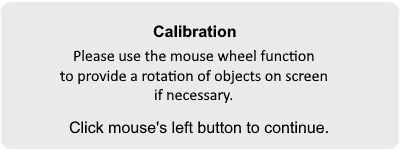
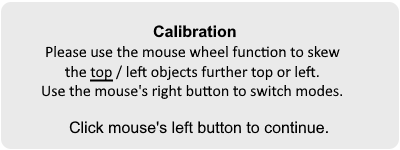
Calibration Update
Contains three callibration settings (offset center, scale objects, skew left/right/top/bottom)

Changed region(s): [[0.09, 0.2933, 0.87, 0.6933]]

diff --git a/app/libs/controls/calibration.py b/app/libs/controls/calibration.py
@@ -13,7 +13,7 @@ from ..object import *
 from ..assets import *
 
 DISPLAY_OFFSET_FROM_BOTTOM = 300
-NO_OF_CALIBRATION_STEPS = 3
+NO_OF_CALIBRATION_STEPS = 5
 
 class Calibration(Control):
     """
@@ -88,12 +88,32 @@ class Calibration(Control):
         placement_x = screen_w / 2 - asset_calibration_step_one.get_width() / 2 
         
         # Display corresponding calibration step
+        step_img = None
         if self.current_step == 1:
-            screen.blit(asset_calibration_step_one, (placement_x, screen_h-self.step_tip_offset))
+            step_img = asset_calibration_step_one
         elif self.current_step == 2:
-            screen.blit(asset_calibration_step_two, (placement_x, screen_h-self.step_tip_offset))
+            if self.adjust_mode == 0:
+                step_img = asset_calibration_step_two
+            else:
+                step_img = asset_calibration_step_two_alt
         elif self.current_step == 3:
-             screen.blit(asset_calibration_step_three, (placement_x, screen_h-self.step_tip_offset))
+            if self.adjust_mode == 0:
+                step_img = asset_calibration_step_three
+            else:
+                step_img = asset_calibration_step_three_alt
+        elif self.current_step == 4:
+            if self.adjust_mode == 0:
+                step_img = asset_calibration_step_four
+            else:
+                step_img = asset_calibration_step_four_alt
+        elif self.current_step == 5:
+            if self.adjust_mode == 0:
+                step_img = asset_calibration_step_five
+            else:
+                step_img = asset_calibration_step_five_alt
+             
+        if step_img is not None:
+            screen.blit(step_img, (placement_x, screen_h-self.step_tip_offset))
         pass
     
     def next_step(self, controller: AppController):
@@ -149,5 +169,15 @@ class Calibration(Control):
                     controller.camera.scale_x += event.y / 100
                 else:
                     controller.camera.scale_y += event.y / 100
+            elif self.current_step == 4:
+                if self.adjust_mode == 0:
+                    controller.camera.skew_top += event.y / 100
+                else:
+                    controller.camera.skew_left += event.y / 100
+            elif self.current_step == 5:
+                if self.adjust_mode == 0:
+                    controller.camera.skew_bottom += event.y / 100
+                else:
+                    controller.camera.skew_right += event.y / 100
                 
         pass

diff --git a/app/libs/devices/camera.py b/app/libs/devices/camera.py
@@ -134,8 +134,17 @@ class Camera:
             # X and Y offsets for center object (as perc of screen)
             self.offset_x = 0 
             self.offset_y = 0
-            self.scale_x = 1  # To be calibrated
-            self.scale_y = 1  # To be calibrated
+            # X and Y resizing for every object (perc of object)
+            self.scale_x = 1 
+            self.scale_y = 1
+            # X and Y skewing (perc of half-screen)
+            # e.g. a Y top skew of 1, means that the difference from the
+            # center to the top is doubled in offset.
+            self.skew_top = 0
+            self.skew_bottom = 0
+            self.skew_left = 0
+            self.skew_right = 0
+            
             self.has_model = os.path.isfile(ASSET_TRAINED_MODEL)
             self.last_time_updated = datetime.datetime.now()
             self.current_update = 0  # Alternates between 0 and 1
@@ -516,6 +525,24 @@ class Camera:
                         ymin -= diff_h / 2
                         xmax += diff_w / 2
                         ymax += diff_h / 2
+                        
+                        # Apply calibration settings (skew)
+                        center_x = (xmin + xmax) / 2
+                        center_y = (ymin + ymax) / 2
+                        offset_x = 0
+                        offset_y = 0
+                        if center_x + 8 < screen_x / 2:
+                            offset_x -= self.skew_left * (center_x - screen_x / 2)
+                        if center_x - 8 > screen_x / 2:
+                            offset_x += self.skew_right * (screen_x - center_x)
+                        if center_y + 8 < screen_y / 2:
+                            offset_y -= self.skew_top * (center_y - screen_y / 2)
+                        if center_y - 8 > screen_y / 2:
+                            offset_y += self.skew_bottom * (screen_y - center_y)
+                        xmin += offset_x
+                        xmax += offset_x
+                        ymin += offset_y
+                        ymax += offset_y
 
                         width = xmax - xmin
                         height = ymax - ymin

diff --git a/app/libs/assets.py b/app/libs/assets.py
@@ -16,8 +16,13 @@ ASSET_MENU_BUTTON_RECONNECT_BOARD = 'assets/images/menu/button_reconnect_board.p
 
 ASSET_CALIBRATION_STEP_ONE = 'assets/images/calibration.s1.png'
 ASSET_CALIBRATION_STEP_TWO = 'assets/images/calibration.s2.png'
+ASSET_CALIBRATION_STEP_TWO_ALT = 'assets/images/calibration.s2.alt.png'
 ASSET_CALIBRATION_STEP_THREE = 'assets/images/calibration.s3.png'
+ASSET_CALIBRATION_STEP_THREE_ALT = 'assets/images/calibration.s3.alt.png'
 ASSET_CALIBRATION_STEP_FOUR = 'assets/images/calibration.s4.png'
+ASSET_CALIBRATION_STEP_FOUR_ALT = 'assets/images/calibration.s4.alt.png'
+ASSET_CALIBRATION_STEP_FIVE = 'assets/images/calibration.s5.png'
+ASSET_CALIBRATION_STEP_FIVE_ALT = 'assets/images/calibration.s5.alt.png'
 ASSET_CALIBRATION_CIRCLE = 'assets/images/calibration_circle.png'
 
 ASSET_APP_BORDER = 'assets/images/zone_border_l.png'
@@ -58,8 +63,13 @@ asset_menu_button_reconnect_board = pygame.image.load(ASSET_MENU_BUTTON_RECONNEC
 
 asset_calibration_step_one = pygame.image.load(ASSET_CALIBRATION_STEP_ONE)
 asset_calibration_step_two = pygame.image.load(ASSET_CALIBRATION_STEP_TWO)
+asset_calibration_step_two_alt = pygame.image.load(ASSET_CALIBRATION_STEP_TWO_ALT)
 asset_calibration_step_three = pygame.image.load(ASSET_CALIBRATION_STEP_THREE)
+asset_calibration_step_three_alt = pygame.image.load(ASSET_CALIBRATION_STEP_THREE_ALT)
 asset_calibration_step_four = pygame.image.load(ASSET_CALIBRATION_STEP_FOUR)
+asset_calibration_step_four_alt = pygame.image.load(ASSET_CALIBRATION_STEP_FOUR_ALT)
+asset_calibration_step_five = pygame.image.load(ASSET_CALIBRATION_STEP_FIVE)
+asset_calibration_step_five_alt = pygame.image.load(ASSET_CALIBRATION_STEP_FIVE_ALT)
 
 asset_calibration_circle = pygame.image.load(ASSET_CALIBRATION_CIRCLE)
 

diff --git a/app/libs/controls/zone.py b/app/libs/controls/zone.py
@@ -28,7 +28,6 @@ PLAYBACK_MARKER_TAG = (
 )  # Object to indicate playback is checked in playback box.
 PLAYBACK_COOLDOWN = 2  # seconds
 
-
 HIGH_AMP = 4000
 
 WAVE_SPAN = 80  # How long a wave is in pixels
